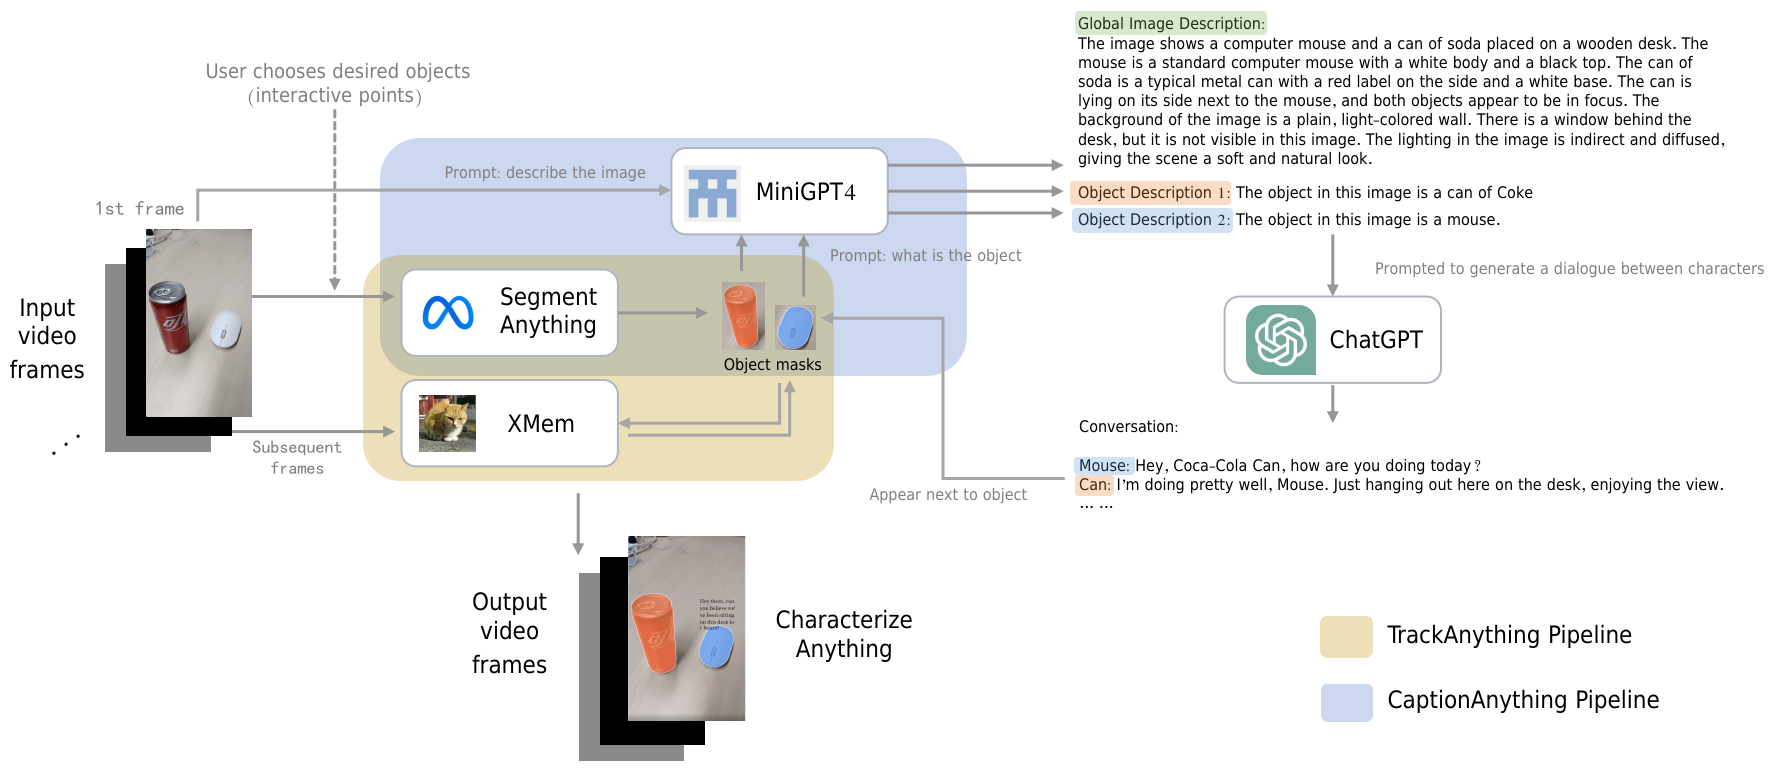
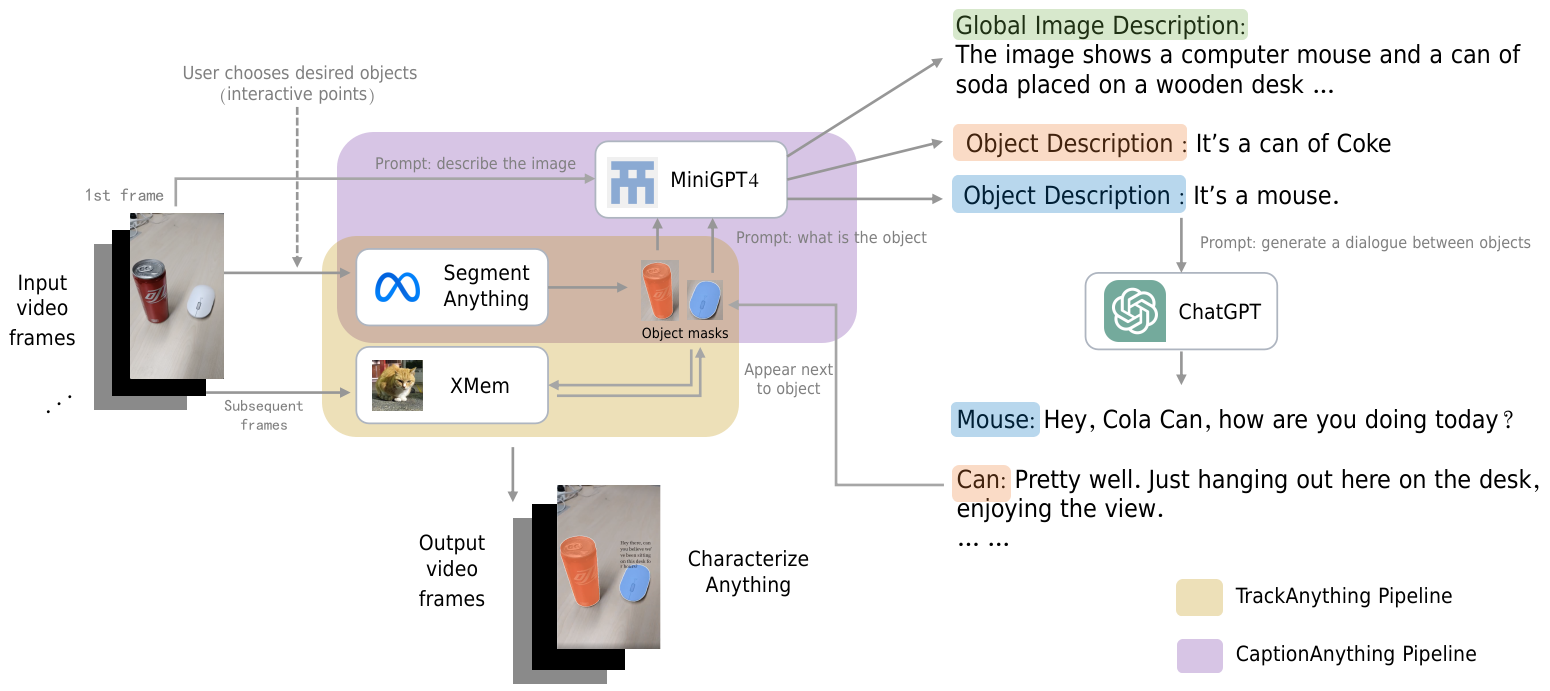
doc: refine framework image & readme

diff --git a/README.md b/README.md
@@ -2,9 +2,9 @@
 
 # Characterize Anything
 
-Imagine a world where every object around you springs to life. Meet your favorite mug of coffee, chat with your laptop, befriend your sofa.🤩
+Imagine a world where every object around you springs to life. Meet your favorite mug of coffee, chat with your fridge, befriend your sofa.🤩
 
-Here we create yet another *inspirational* demo by fusing [Segment Anything](https://segment-anything.com/) and ChatGPT to bring every inanimate object to life, namely **Characterize Anything**.
+***Characterize Anything*** is an inspirational interactive tool for characterizing any inanimate object in a video/image so that users could talk with. It combines the power of SOTA video object tracking and large vision language models in order to bring any object to life.
 
 (This project is still under active development to make it into an amazing product.💪)
 
@@ -46,6 +46,17 @@ Checkout some videos for fun: [Youtube | If Objects Could Talk!? | Brent Rivera]
 </details>
 
 ## 2) Demo
+
+We currently offer two types of demos: 
+
+1. **Interactive Static Demo**
+   
+   - You can input an image and select the object you want to converse with. Once you've made your selection, you can start the conversation.
+   - If you wish to converse with another object, simply click on it and the conversation will restart.
+
+2. **Self-Chat Video Demo**
+
+   - You can input a video and select at least two objects that you would like to bring to life. ChatGPT will then imagine conversation between the selected objects in a creative way.
 
 ### 2.1) Interactive Static Demo
 
